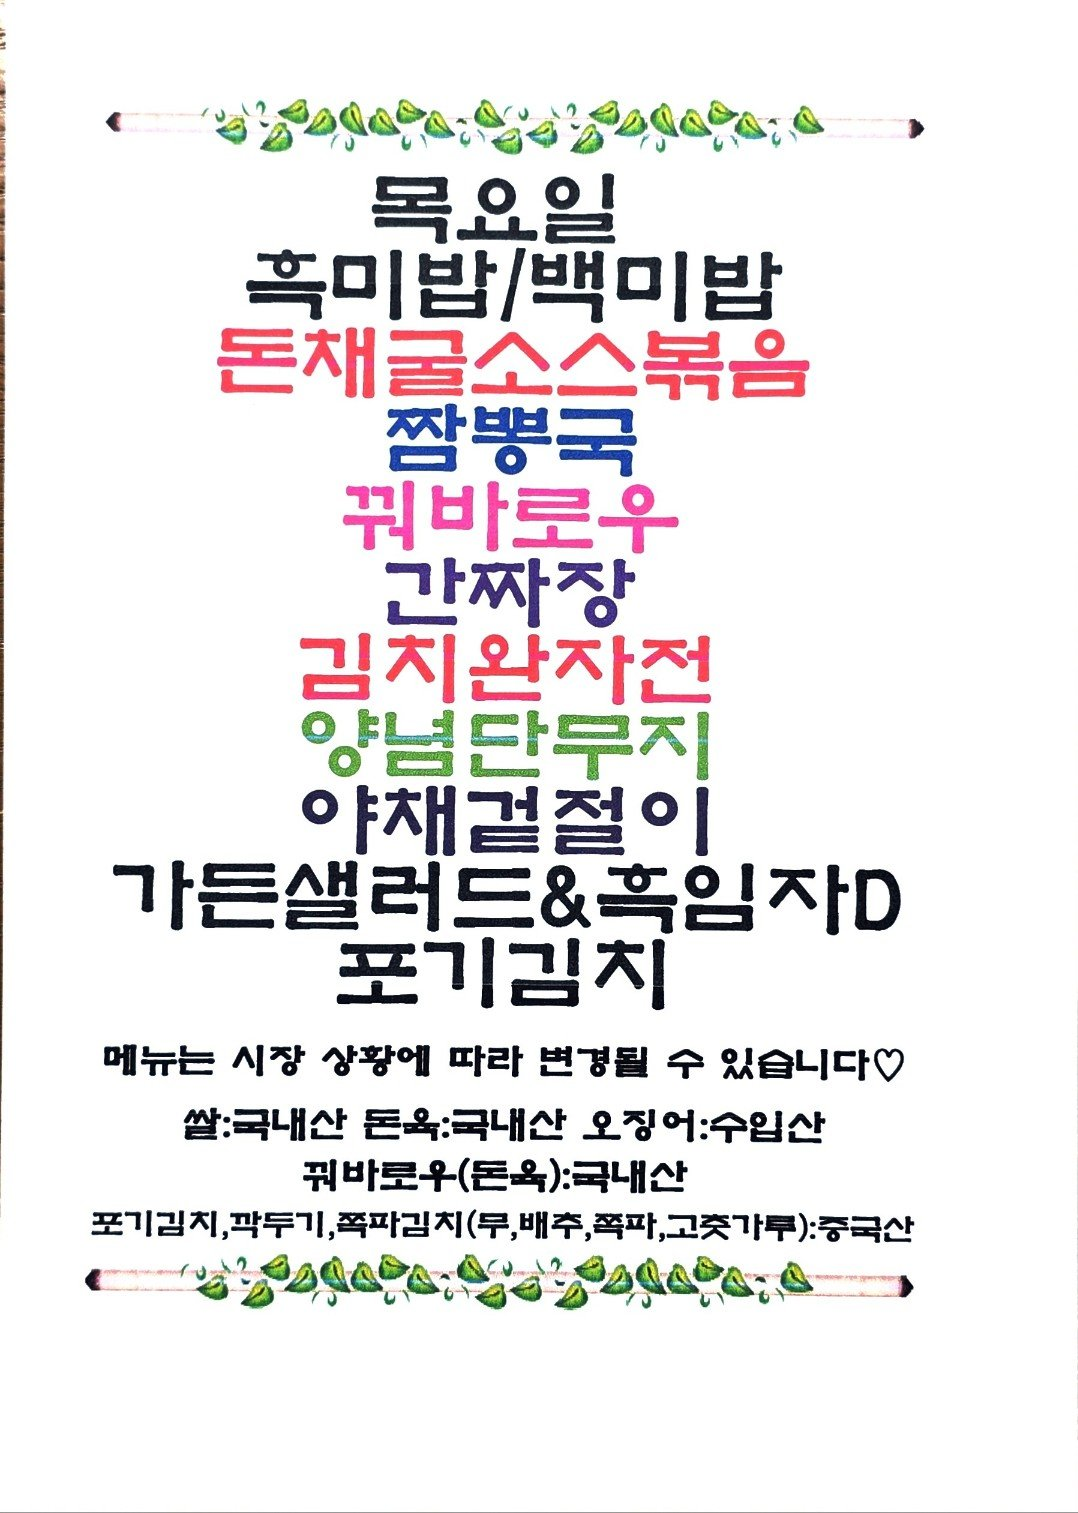
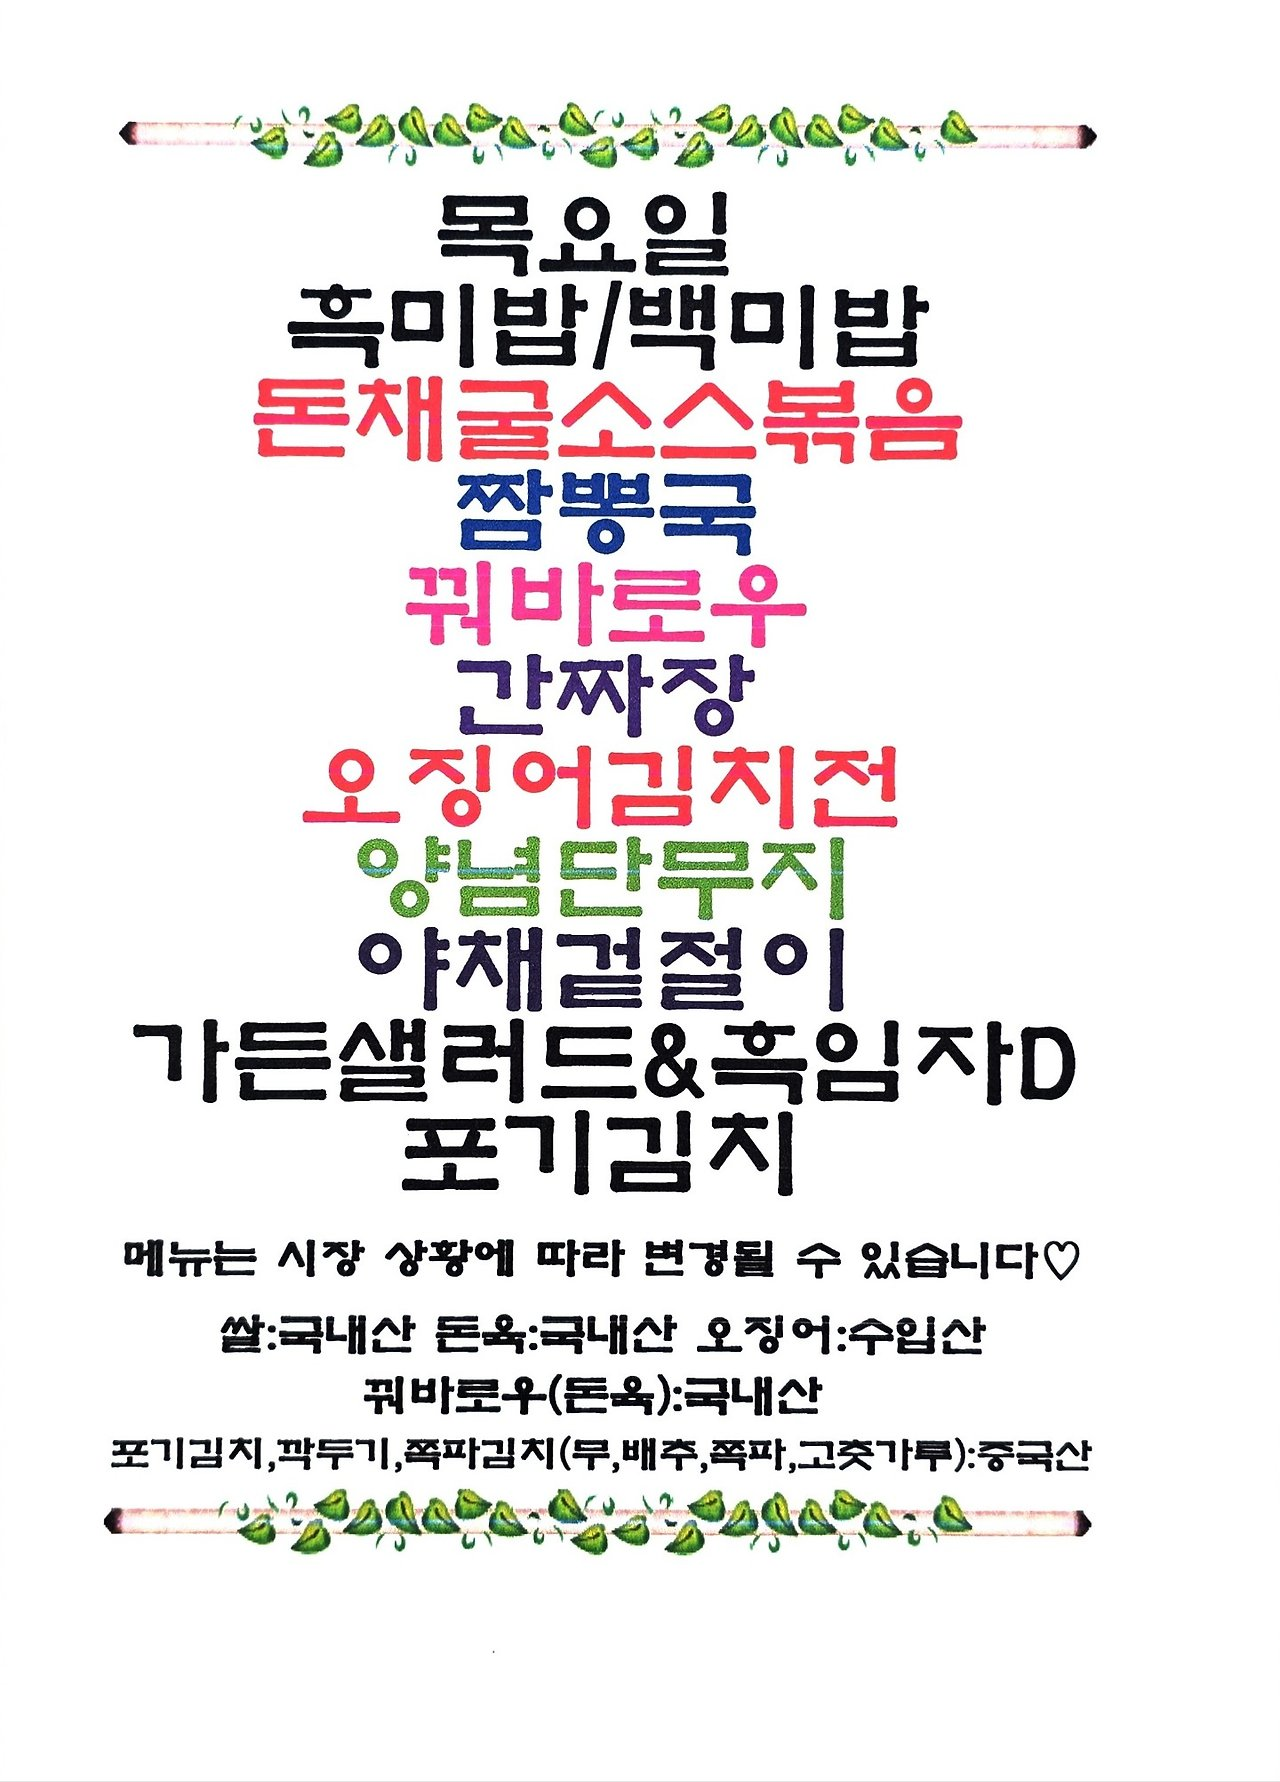
Update menu board assets

Changed region(s): [[0.0612, 0.0621, 0.8571, 0.8698], [0.0, 0.9941, 1.0, 1.0], [0.0, 0.0311, 0.0306, 0.5902]]

diff --git a/menu-today/index.html b/menu-today/index.html
@@ -209,7 +209,7 @@
 
     <section class="meta-bar">
       <div class="meta-card"><div class="meta-label">기준 날짜</div><div class="meta-value">2026년 6월 25일 목요일</div></div>
-      <div class="meta-card"><div class="meta-label">최종 가져온 시간</div><div class="meta-value">2026-06-25 10:03:15</div></div>
+      <div class="meta-card"><div class="meta-label">최종 가져온 시간</div><div class="meta-value">2026-06-25 10:13:08</div></div>
       <div class="meta-card"><div class="meta-label">확인 완료</div><div class="meta-value">9개 식당</div></div>
       <div class="meta-card"><div class="meta-label">준비중</div><div class="meta-value">3개 채널</div></div>
     </section>
@@ -295,7 +295,7 @@
             <div class="sub">에이스테크노타워10차</div>
           </div>
         </div>
-        <div class="menu-inline-image"><img src="./images/thefoodsketch.png" alt="더푸드스케치 식단 이미지"></div><ul><li>공나물국</li><li>미나리대패삼겹실구이</li><li>골뱅이소면무침</li><li>= 버섯어묵볶음</li><li>상추 / 배추 / 우렁쌈장</li><li>띠 무밀랭이</li><li>가든샐러드 / 드레싱</li><li>배추겉절이 / 음료</li><li>콩나물국</li></ul>
+        <div class="menu-inline-image"><img src="./images/thefoodsketch.png" alt="더푸드스케치 식단 이미지"></div><ul><li>공나물국</li><li>미나리대패삼겹실구이</li><li>골뱅이소면무침</li><li>= 버섯어묵볶음</li><li>상추 / 배추 / 우렁쌈장</li><li>띠 무밀랭이</li><li>가든샐러드 &amp; 드레싱</li><li>배추겉절이 / 음료</li><li>콩나물국</li></ul>
       </article>
 
       <article class="restaurant-card">
@@ -305,7 +305,7 @@
             <div class="sub">스타밸리</div>
           </div>
         </div>
-        <div class="menu-inline-image"><img src="./images/starvalley-food4u-post.png" alt="스타밸리푸드포유 식단 이미지"></div><ul><li>목요일</li><li>옥미밥 / 백미밥</li><li>그짜장</li><li>리치관자전</li><li>양넘단무지</li><li>야채걷절이</li><li>가든샐러드 &amp; 흑임자D</li><li>포기김치</li><li>혹미밥 / 백미밥</li><li>꿔바로</li></ul>
+        <div class="menu-inline-image"><img src="./images/starvalley-food4u-post.png" alt="스타밸리푸드포유 식단 이미지"></div><ul><li>목요일</li><li>혹미밥 / 백미밥</li><li>논채굴소스볶슴</li><li>오징어김치전</li><li>양넘단무지</li><li>야채걷절이</li><li>가든샐러드 &amp; 흑임자D</li><li>푸기길지</li></ul>
       </article>
     </section>
 

diff --git a/guro-menu/index.html b/guro-menu/index.html
@@ -32,7 +32,7 @@
   </header>
   <section class="meta">
     <div><small>기준 날짜</small><strong>2026년 6월 25일 목요일</strong></div>
-    <div><small>최종 갱신</small><strong>2026-06-25 10:03:30</strong></div>
+    <div><small>최종 갱신</small><strong>2026-06-25 10:13:26</strong></div>
     <div><small>등록 식당</small><strong>5개</strong></div>
   </section>
   <div class="notice">공개 카카오 채널의 메뉴 이미지를 자동 수집하고 OCR로 정리합니다. 텍스트에 오타가 있을 수 있으니 식단 이미지를 함께 확인해 주세요.</div>
